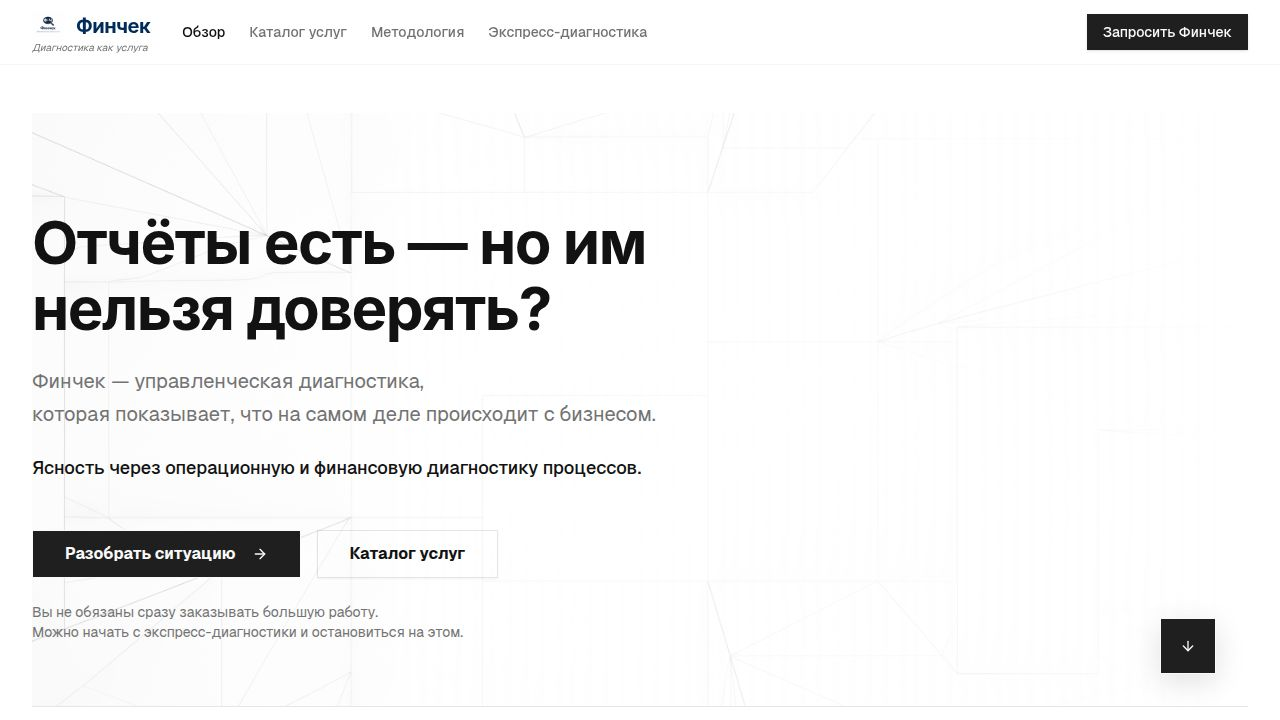
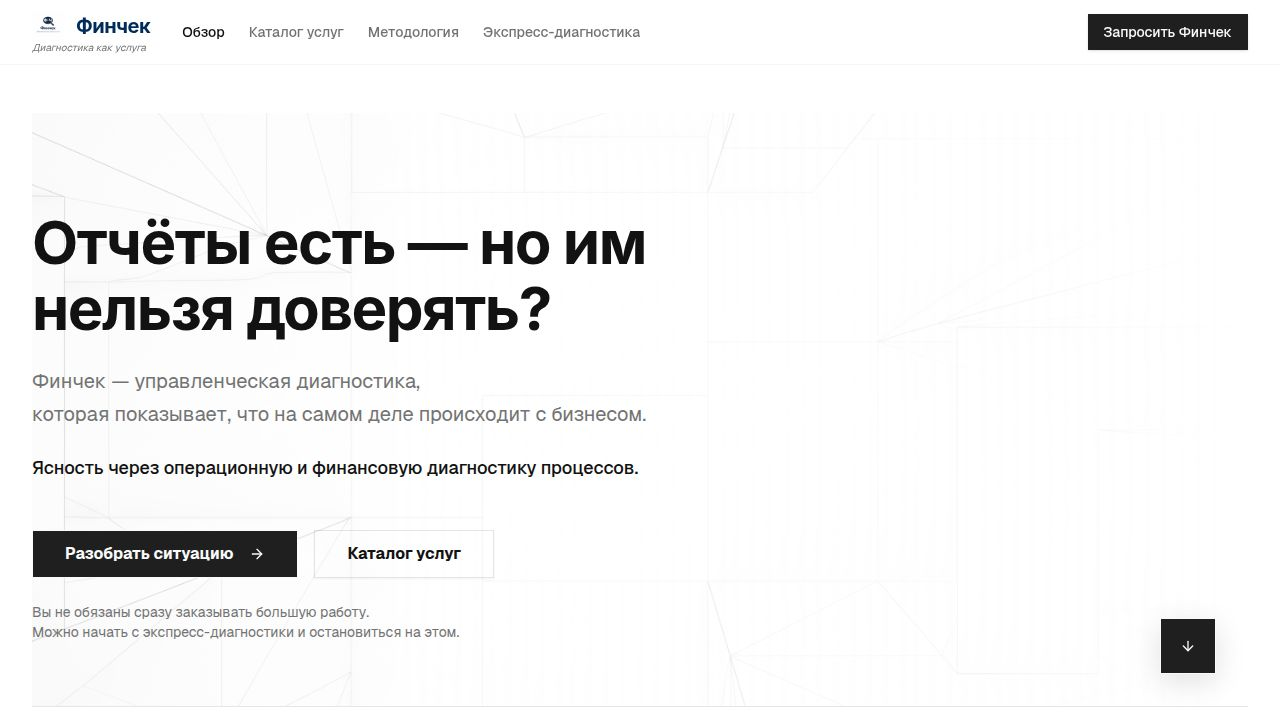
Update financial diagnostics service details and pricing
Update service title, description, role, task, input, output, and pricing for the B1 financial diagnostics service.

Replit-Commit-Author: Agent
Replit-Commit-Session-Id: 37a254d2-f206-4e6f-9d23-69abc5b6ef7e
Replit-Commit-Checkpoint-Type: full_checkpoint
Replit-Commit-Event-Id: 64373015-2dab-4e6b-9d53-d156c6f67ee4
Replit-Commit-Screenshot-Url: https://storage.googleapis.com/screenshot-production-us-central1/8d6f941a-e7a3-48e3-bfbf-0671b2a4fc34/37a254d2-f206-4e6f-9d23-69abc5b6ef7e/6X0CIqK
Replit-Helium-Checkpoint-Created: true

diff --git a/client/src/lib/data.ts b/client/src/lib/data.ts
@@ -156,19 +156,24 @@ export const products: DiagnosticProduct[] = [
     id: 'b1-pnl',
     code: 'B1',
     level: 'B',
-    title: 'B1. Диагностика P&L',
+    title: 'В1. Финансовая диагностика 360',
     shortDescription: 'Проверка формирования управленческого результата и искажений картины.',
-    role: 'Временный управленческий аналитик по фин. результату',
-    task: 'Проверить, как формируется результат и где решения искажают картину.',
+    role: 'Внешний управленческий диагност по финансовой системе.',
+    task: 'Проверить, как формируется результат, где решения искажают картину, и почему отчёты противоречат друг другу. Дать целостную картину: прибыль есть? Деньги есть? Баланс сходится? Что будет, если изменить цену, объём или сроки оплаты?',
     whenNeeded: [
-      'Неизвестна реальная маржинальность',
-      'Иллюзия прибыли при пустых счетах'
+      'прибыль есть → денег нет',
+      'отчёты противоречат друг другу',
+      'дебиторка растёт быстрее выручки',
+      'решения принимаются «на ощущениях»',
+      'неизвестна реальная маржинальность',
+      'иллюзия прибыли при пустых счетах'
     ],
-    unitOfProduct: '1 отчёт P&L × 1 период',
+    unitOfProduct: '1 компания × 1 период',
     input: [
-      'управленческий P&L',
+      'управленческие отчёты (P&L, ДДС, баланс)',
       'расшифровки статей',
-      'данные уровня A'
+      'комментарии по процессам',
+      'данные уровня A (если есть)'
     ],
     process: [
       'Шаг 1. Проверка логики (доход/расход/периоды)',
@@ -176,11 +181,12 @@ export const products: DiagnosticProduct[] = [
       'Шаг 3. Диагностика искажений (иллюзия прибыли, переносы)'
     ],
     output: [
-      'Статус достоверности результата',
-      'Ключевые источники искажения',
-      'Управленческие выводы: чему верить'
+      'статус достоверности отчётности',
+      'причины искажений',
+      'точки управленческого контроля',
+      'готовность к управленческим решениям'
     ],
-    pricingLogic: '40 000 ₽ за 1 P&L / 1 месяц. Квартал 70 000 ₽.',
+    pricingLogic: '75 000 ₽ за 1 период. Отсутствие расшифровок → +20%.',
     boundaries: 'Даю управленческую реальность.',
     da: ['показываю управленческую правду'],
     neda: ['не перестраиваю методологию учёта', 'не внедряю МСФО', 'не принимаю решения', 'не беру ответственность за результат']
